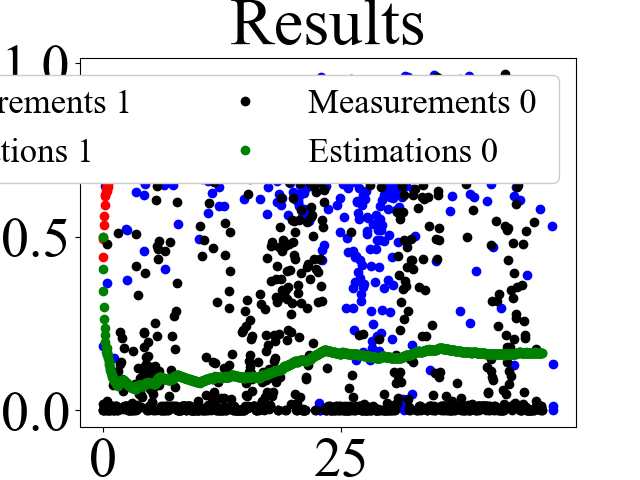
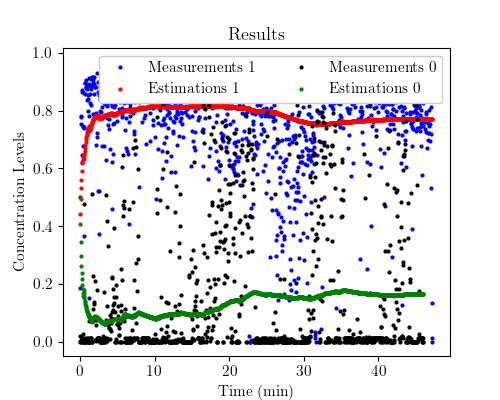
options

diff --git a/tfpose/3-analyzing/simplyKFsp.py b/tfpose/3-analyzing/simplyKFsp.py
@@ -10,11 +10,27 @@ from scipy.interpolate import make_interp_spline, BSpline
 
 
 
-plt.rcParams['font.family'] = 'Times New Roman'
-plt.rcParams.update({'font.size': 40})
+# plt.rcParams['font.family'] = 'Times New Roman'
 
-dataPath0 = '/Users/wdlee/Hci/test111.pkl'
-dataPath1 = '/Users/wdlee/Hci/test000.pkl'
+plt.rcParams.update({'font.size': 11})
+
+# use LaTeX fonts in the plot
+plt.rc('text', usetex=True)
+plt.rc('font', family='serif')
+# plt.rc('xtick', labelsize='x-small')
+# plt.rc('ytick', labelsize='x-small')
+# params = {'tex.usetex': True}
+# plt.rcParams.update(params)
+
+# plt.rcParams.update({
+#     "text.usetex": True,
+#     "font.family": "serif",
+#     "font.serif": ["Palatino"]
+# })
+
+# plt.rc(usetex = True)
+dataPath0 = '~/Work/python/ConcentrationLectureData/data/test111.pkl'
+dataPath1 = '~/Work/python/ConcentrationLectureData/data/test000.pkl'
 
 
 
@@ -108,22 +124,23 @@ m0, e0, tNpTot0 = funcKFsimple(dataPath0)
 tNpTot1 = tNpTot1 * 2.5 / 60
 tNpTot0 = tNpTot0 * 2.5 / 60
 
-plt.figure(1)
+plt.figure(1, figsize=(5, 4), dpi=300)
 
-plt.plot(tNpTot1, m1, 'bo', label='Measurements 1 ')
-plt.plot(tNpTot1, e1, 'ro', label='Estimations 1 ')
-plt.plot(tNpTot0, m0, 'ko', label='Measurements 0 ')
-plt.plot(tNpTot0, e0, 'go', label='Estimations 0 ')
+plt.plot(tNpTot1, m1, 'bo', label='Measurements 1 ', markersize=2 )
+plt.plot(tNpTot1, e1, 'ro', label='Estimations 1 ' , markersize=2 )
+plt.plot(tNpTot0, m0, 'ko', label='Measurements 0 ', markersize=2 )
+plt.plot(tNpTot0, e0, 'go', label='Estimations 0 ' , markersize=2 )
 
 
-plt.legend(framealpha=1, loc='upper right', prop={'size': 25}, ncol= 2)
+plt.legend(framealpha=1, loc='upper right', ncol= 2)
 plt.title('Results')
 plt.xlabel('Time (min)')
 plt.ylabel('Concentration Levels')
 # plt.xlim(0,50)
 # plt.ylim(0,1.0)
-plt.savefig('./png/simple_kalman_filter.png')
 plt.grid()
+plt.savefig('./png/result.png')
+
 
 def _2gaussian(x, amp1,cen1,sigma1, amp2,cen2,sigma2):
     return amp1*(1/(sigma1*(np.sqrt(2*np.pi))))*(np.exp((-1.0/2.0)*(((x_array-cen1)/sigma1)**2))) + \
@@ -153,14 +170,10 @@ def z_score_normalize(lst):
 
 
 
-plt.figure(2)
+plt.figure(2,figsize=(5, 4), dpi=300)
 # plt.hist(conLv_esti_save, bins =nBins , label='Estimation')
 # plt.legend(loc='lower right')
-plt.title('Non-Concentration')
-plt.xlabel('Estimation Concentration Levels')
-plt.ylabel('Number of Values')
-# plt.savefig('./png/histogram.png')
-plt.grid()
+
 
 # e1 = z_score_normalize(e1)
 # e0 = z_score_normalize(e0)
@@ -191,17 +204,18 @@ plot(xnew0,y_smooth0,color='green',lw=3,label='model')
 
 print(pd.DataFrame(data={'params0':params0,'sigma0':sigma0},index=bimodal.__code__.co_varnames[1:]))
 
+plt.title('Low Concentration')
+plt.xlabel('$\Psi_{low}$')
+plt.ylabel('Number of Values') 
+plt.grid()
+plt.savefig('./png/resultLow.png')
+
 #############
 
 
-plt.figure(3)
+plt.figure(3,figsize=(5, 4), dpi=300)
 # plt.hist(conLv_esti_save, bins =nBins , label='Estimation')
 # plt.legend(loc='lower right')
-plt.title('Full-Concentration')
-plt.xlabel('Estimation Concentration Levels')
-plt.ylabel('Number of Values')
-# plt.savefig('./png/histogram.png')
-plt.grid()
 
 
 nBins1 = 30
@@ -229,6 +243,12 @@ y_smooth1 = spl1(xnew1)
 plot(xnew1,y_smooth1,color='red',lw=3,label='model')
 
 print(pd.DataFrame(data={'params1':params1,'sigma1':sigma1},index=bimodal.__code__.co_varnames[1:]))
+
+plt.title('High Concentration')
+plt.xlabel(r'$\Psi_{high}$')
+plt.ylabel('Number of Values')
+plt.grid()
+plt.savefig('./png/resultHigh.png')
 
 
 
